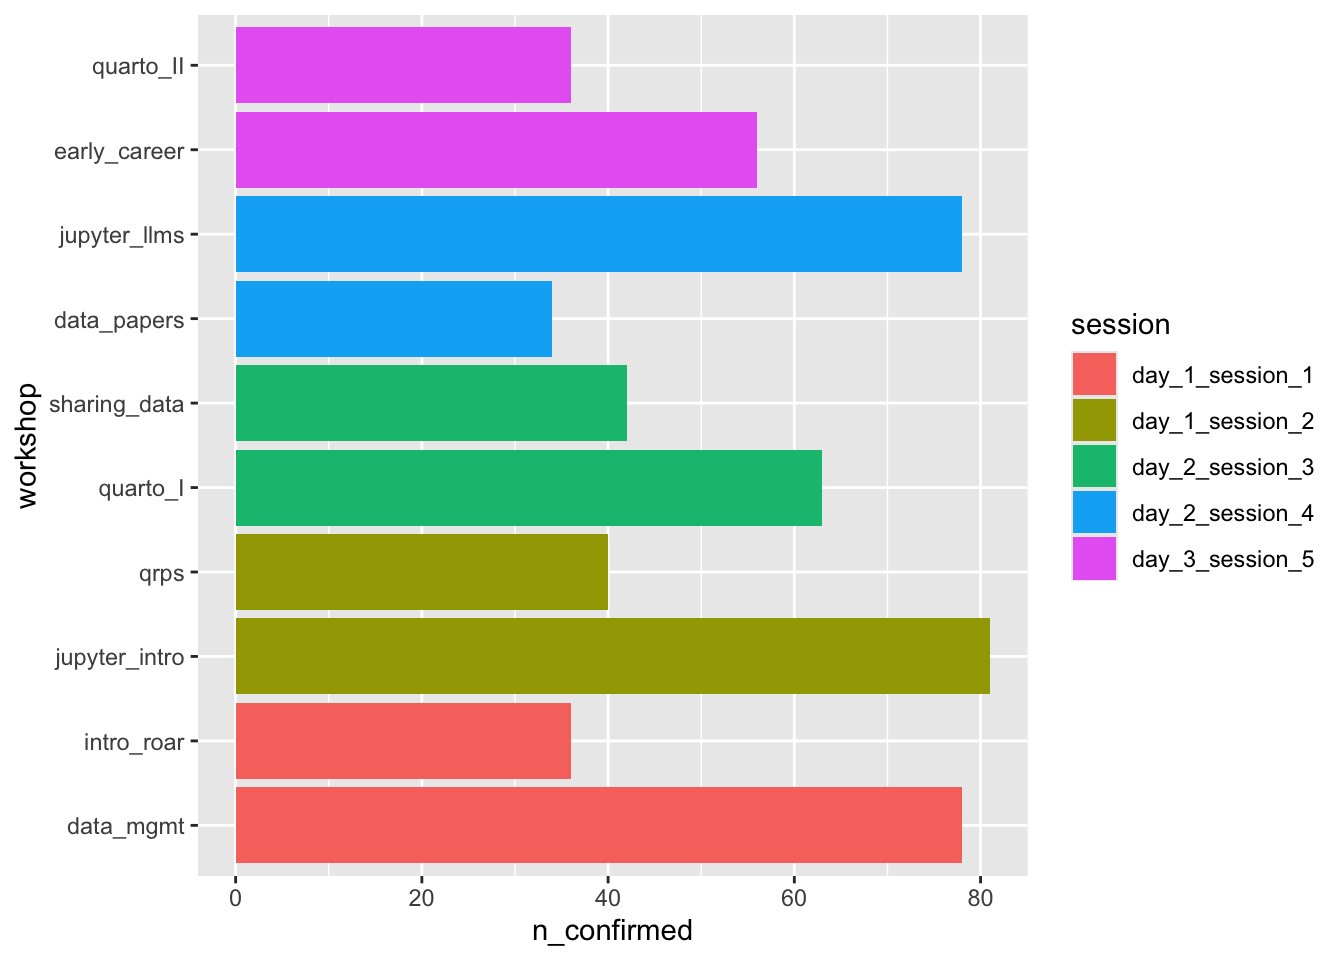
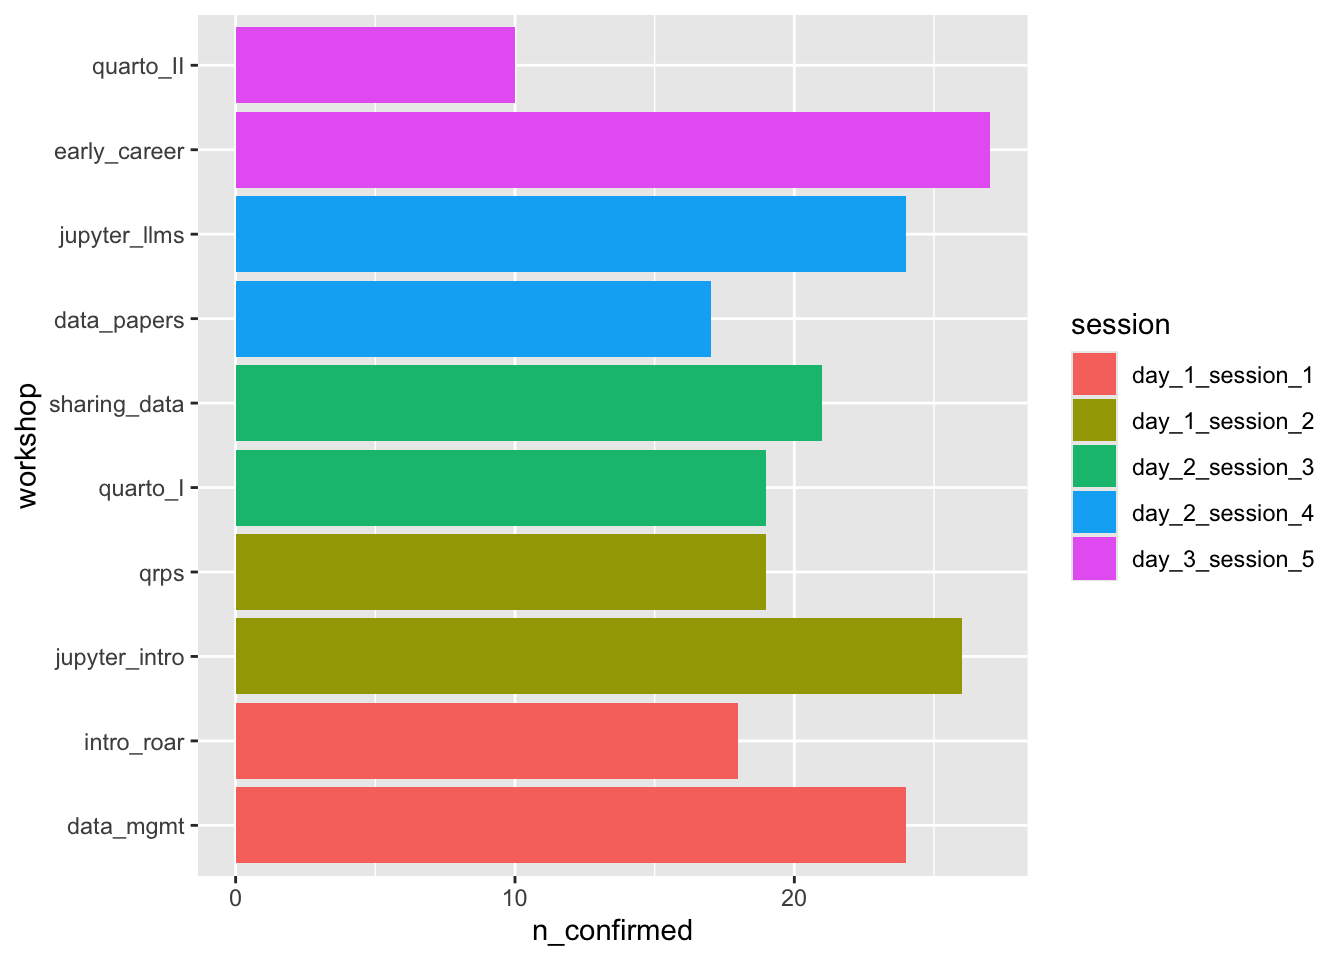
Update confirmations.

diff --git a/docs/confirmation.html b/docs/confirmation.html
@@ -258,6 +258,8 @@ pre > code.sourceCode > span > a:first-child::before { text-decoration: underlin
   <li><a href="#visualize" id="toc-visualize" class="nav-link" data-scroll-target="#visualize">Visualize</a>
   <ul class="collapse">
   <li><a href="#day-1-attendees" id="toc-day-1-attendees" class="nav-link" data-scroll-target="#day-1-attendees">Day 1 attendees</a></li>
+  <li><a href="#day-2-attendees" id="toc-day-2-attendees" class="nav-link" data-scroll-target="#day-2-attendees">Day 2 attendees</a></li>
+  <li><a href="#day-3-attendees" id="toc-day-3-attendees" class="nav-link" data-scroll-target="#day-3-attendees">Day 3 attendees</a></li>
   </ul></li>
   </ul>
 <div class="toc-actions"><ul><li><a href="https://github.com/penn-state-open-science/bootcamp-2025/edit/main/src/confirmation.qmd" class="toc-action"><i class="bi bi-github"></i>Edit this page</a></li><li><a href="https://github.com/penn-state-open-science/bootcamp-2025/issues/new" class="toc-action"><i class="bi empty"></i>Report an issue</a></li></ul></div></nav>
@@ -279,7 +281,7 @@ pre > code.sourceCode > span > a:first-child::before { text-decoration: underlin
     <div>
     <div class="quarto-title-meta-heading">Modified</div>
     <div class="quarto-title-meta-contents">
-      <p class="date-modified">August 13, 2025</p>
+      <p class="date-modified">August 14, 2025</p>
     </div>
   </div>
     
@@ -336,12 +338,18 @@ Important
 <span id="cb2-6"><a href="#cb2-6" aria-hidden="true" tabindex="-1"></a><span class="fu">options</span>(<span class="at">gargle_oauth_email =</span> <span class="fu">Sys.getenv</span>(<span class="st">"GMAIL_SURVEY"</span>))</span>
 <span id="cb2-7"><a href="#cb2-7" aria-hidden="true" tabindex="-1"></a>googledrive<span class="sc">::</span><span class="fu">drive_auth</span>()</span>
 <span id="cb2-8"><a href="#cb2-8" aria-hidden="true" tabindex="-1"></a></span>
-<span id="cb2-9"><a href="#cb2-9" aria-hidden="true" tabindex="-1"></a>googledrive<span class="sc">::</span><span class="fu">drive_download</span>(</span>
-<span id="cb2-10"><a href="#cb2-10" aria-hidden="true" tabindex="-1"></a>  params<span class="sc">$</span>sheets_fn,</span>
-<span id="cb2-11"><a href="#cb2-11" aria-hidden="true" tabindex="-1"></a>  <span class="at">path =</span> <span class="fu">file.path</span>(params<span class="sc">$</span>csv_dir, params<span class="sc">$</span>data_csv_fn),</span>
-<span id="cb2-12"><a href="#cb2-12" aria-hidden="true" tabindex="-1"></a>  <span class="at">type =</span> <span class="st">"csv"</span>,</span>
-<span id="cb2-13"><a href="#cb2-13" aria-hidden="true" tabindex="-1"></a>  <span class="at">overwrite =</span> <span class="cn">TRUE</span></span>
-<span id="cb2-14"><a href="#cb2-14" aria-hidden="true" tabindex="-1"></a>)</span></code><button title="Copy to Clipboard" class="code-copy-button"><i class="bi"></i></button></pre></div>
+<span id="cb2-9"><a href="#cb2-9" aria-hidden="true" tabindex="-1"></a><span class="co"># googledrive::drive_download(</span></span>
+<span id="cb2-10"><a href="#cb2-10" aria-hidden="true" tabindex="-1"></a><span class="co">#   params$sheets_fn,</span></span>
+<span id="cb2-11"><a href="#cb2-11" aria-hidden="true" tabindex="-1"></a><span class="co">#   path = file.path(params$csv_dir, params$data_csv_fn),</span></span>
+<span id="cb2-12"><a href="#cb2-12" aria-hidden="true" tabindex="-1"></a><span class="co">#   type = "csv",</span></span>
+<span id="cb2-13"><a href="#cb2-13" aria-hidden="true" tabindex="-1"></a><span class="co">#   overwrite = TRUE</span></span>
+<span id="cb2-14"><a href="#cb2-14" aria-hidden="true" tabindex="-1"></a><span class="co"># )</span></span>
+<span id="cb2-15"><a href="#cb2-15" aria-hidden="true" tabindex="-1"></a></span>
+<span id="cb2-16"><a href="#cb2-16" aria-hidden="true" tabindex="-1"></a>attendees <span class="ot">&lt;-</span> googlesheets4<span class="sc">::</span><span class="fu">read_sheet</span>(<span class="st">"https://docs.google.com/spreadsheets/d/1PB4VlZ3hSblOIC9DpOuN6n7icEPjrhQEQZsCl-WAdEI/edit?gid=1355452782#gid=1355452782"</span>) <span class="sc">|&gt;</span></span>
+<span id="cb2-17"><a href="#cb2-17" aria-hidden="true" tabindex="-1"></a>  readr<span class="sc">::</span><span class="fu">write_csv</span>(<span class="fu">file.path</span>(params<span class="sc">$</span>csv_dir, params<span class="sc">$</span>data_csv_fn))</span>
+<span id="cb2-18"><a href="#cb2-18" aria-hidden="true" tabindex="-1"></a></span>
+<span id="cb2-19"><a href="#cb2-19" aria-hidden="true" tabindex="-1"></a>presenters <span class="ot">&lt;-</span> googlesheets4<span class="sc">::</span><span class="fu">read_sheet</span>(<span class="st">"https://docs.google.com/spreadsheets/d/1PB4VlZ3hSblOIC9DpOuN6n7icEPjrhQEQZsCl-WAdEI/edit?gid=1095246661#gid=1095246661"</span>, <span class="at">sheet =</span> <span class="st">"presenters"</span>) <span class="sc">|&gt;</span></span>
+<span id="cb2-20"><a href="#cb2-20" aria-hidden="true" tabindex="-1"></a>  readr<span class="sc">::</span><span class="fu">write_csv</span>(<span class="fu">file.path</span>(params<span class="sc">$</span>csv_dir, <span class="st">"presenters-2025.csv"</span>))</span></code><button title="Copy to Clipboard" class="code-copy-button"><i class="bi"></i></button></pre></div>
 </details>
 </div>
 </section>
@@ -370,7 +378,7 @@ Important
 [11] "attend_wed"                                 </code></pre>
 </div>
 </div>
-<p>The imported CSV file has <em>n</em>=89 rows.</p>
+<p>The imported CSV file has <em>n</em>=77 rows.</p>
 <div class="callout callout-style-default callout-note callout-titled">
 <div class="callout-header d-flex align-content-center">
 <div class="callout-icon-container">
@@ -567,7 +575,8 @@ Table&nbsp;11.1: A minimal data dictionary.
 <div class="sourceCode cell-code" id="cb8"><pre class="sourceCode r code-with-copy"><code class="sourceCode r"><span id="cb8-1"><a href="#cb8-1" aria-hidden="true" tabindex="-1"></a>confirmations_clean <span class="ot">&lt;-</span> confirmations_clean <span class="sc">|&gt;</span></span>
 <span id="cb8-2"><a href="#cb8-2" aria-hidden="true" tabindex="-1"></a>  <span class="fu">mutate</span>(<span class="at">plan_wed =</span> stringr<span class="sc">::</span><span class="fu">str_detect</span>(attend_days, <span class="st">"Wed"</span>),</span>
 <span id="cb8-3"><a href="#cb8-3" aria-hidden="true" tabindex="-1"></a>                <span class="at">plan_thu =</span> stringr<span class="sc">::</span><span class="fu">str_detect</span>(attend_days, <span class="st">"Thu"</span>),</span>
-<span id="cb8-4"><a href="#cb8-4" aria-hidden="true" tabindex="-1"></a>                <span class="at">plan_fri =</span> stringr<span class="sc">::</span><span class="fu">str_detect</span>(attend_days, <span class="st">"Fri"</span>)) </span></code><button title="Copy to Clipboard" class="code-copy-button"><i class="bi"></i></button></pre></div>
+<span id="cb8-4"><a href="#cb8-4" aria-hidden="true" tabindex="-1"></a>                <span class="at">plan_fri =</span> stringr<span class="sc">::</span><span class="fu">str_detect</span>(attend_days, <span class="st">"Fri"</span>),</span>
+<span id="cb8-5"><a href="#cb8-5" aria-hidden="true" tabindex="-1"></a>         <span class="at">withdrew =</span> stringr<span class="sc">::</span><span class="fu">str_detect</span>(attend_days, <span class="st">"I can no"</span>)) </span></code><button title="Copy to Clipboard" class="code-copy-button"><i class="bi"></i></button></pre></div>
 </details>
 </div>
 <p>Remove duplicate (email) entries.</p>
@@ -591,42 +600,53 @@ Table&nbsp;11.1: A minimal data dictionary.
 </section>
 <section id="visualize" class="level2">
 <h2 class="anchored" data-anchor-id="visualize">Visualize</h2>
-<p>As of 2025-08-13, we have had <em>n</em>=68 non-presenter registrants confirm.</p>
-<p>Let’s transform the data frame to make it easier to summarize the number of confirmations per session and topic.</p>
+<p>We had <em>n</em>=69 responde to our confirmation survey.</p>
 <div class="cell">
 <details class="code-fold">
 <summary>Code</summary>
-<div class="sourceCode cell-code" id="cb11"><pre class="sourceCode r code-with-copy"><code class="sourceCode r"><span id="cb11-1"><a href="#cb11-1" aria-hidden="true" tabindex="-1"></a>confirmations_long <span class="ot">&lt;-</span> confirmations_clean <span class="sc">|&gt;</span></span>
-<span id="cb11-2"><a href="#cb11-2" aria-hidden="true" tabindex="-1"></a>  <span class="co"># Remove individual-level variables since this is a summary</span></span>
-<span id="cb11-3"><a href="#cb11-3" aria-hidden="true" tabindex="-1"></a>  <span class="fu">select</span>(<span class="sc">-</span><span class="fu">c</span>(<span class="st">'timestamp'</span>, <span class="st">'psu_email'</span>, <span class="st">'name'</span>, <span class="st">'attend_days'</span>,</span>
-<span id="cb11-4"><a href="#cb11-4" aria-hidden="true" tabindex="-1"></a>            <span class="st">'food_restrictions'</span>, <span class="st">'plan_wed'</span>, <span class="st">'plan_thu'</span>, <span class="st">'plan_fri'</span>)) <span class="sc">|&gt;</span></span>
-<span id="cb11-5"><a href="#cb11-5" aria-hidden="true" tabindex="-1"></a>  <span class="fu">pivot_longer</span>(</span>
-<span id="cb11-6"><a href="#cb11-6" aria-hidden="true" tabindex="-1"></a>    <span class="at">cols =</span> <span class="fu">c</span>(</span>
-<span id="cb11-7"><a href="#cb11-7" aria-hidden="true" tabindex="-1"></a>      <span class="st">'day_1_session_1'</span>,</span>
-<span id="cb11-8"><a href="#cb11-8" aria-hidden="true" tabindex="-1"></a>      <span class="st">'day_1_session_2'</span>,</span>
-<span id="cb11-9"><a href="#cb11-9" aria-hidden="true" tabindex="-1"></a>      <span class="st">'day_2_session_3'</span>,</span>
-<span id="cb11-10"><a href="#cb11-10" aria-hidden="true" tabindex="-1"></a>      <span class="st">'day_2_session_4'</span>,</span>
-<span id="cb11-11"><a href="#cb11-11" aria-hidden="true" tabindex="-1"></a>      <span class="st">'day_3_session_5'</span></span>
-<span id="cb11-12"><a href="#cb11-12" aria-hidden="true" tabindex="-1"></a>    ),</span>
-<span id="cb11-13"><a href="#cb11-13" aria-hidden="true" tabindex="-1"></a>    <span class="at">names_to =</span> <span class="st">'session'</span>,</span>
-<span id="cb11-14"><a href="#cb11-14" aria-hidden="true" tabindex="-1"></a>    <span class="at">values_to =</span> <span class="st">'workshop'</span></span>
-<span id="cb11-15"><a href="#cb11-15" aria-hidden="true" tabindex="-1"></a>  ) <span class="sc">|&gt;</span></span>
-<span id="cb11-16"><a href="#cb11-16" aria-hidden="true" tabindex="-1"></a>  <span class="fu">add_count</span>(session, workshop, <span class="at">name =</span> <span class="st">"n_confirmed"</span>, <span class="at">sort =</span> <span class="cn">TRUE</span>) <span class="sc">|&gt;</span></span>
-<span id="cb11-17"><a href="#cb11-17" aria-hidden="true" tabindex="-1"></a>  <span class="fu">group_by</span>(session, workshop) <span class="sc">|&gt;</span></span>
-<span id="cb11-18"><a href="#cb11-18" aria-hidden="true" tabindex="-1"></a>  <span class="fu">filter</span>(<span class="sc">!</span><span class="fu">is.na</span>(workshop)) <span class="sc">|&gt;</span></span>
-<span id="cb11-19"><a href="#cb11-19" aria-hidden="true" tabindex="-1"></a>  <span class="fu">distinct</span>()</span></code><button title="Copy to Clipboard" class="code-copy-button"><i class="bi"></i></button></pre></div>
+<div class="sourceCode cell-code" id="cb11"><pre class="sourceCode r code-with-copy"><code class="sourceCode r"><span id="cb11-1"><a href="#cb11-1" aria-hidden="true" tabindex="-1"></a>cancelled <span class="ot">&lt;-</span> confirmations_clean <span class="sc">|&gt;</span></span>
+<span id="cb11-2"><a href="#cb11-2" aria-hidden="true" tabindex="-1"></a>  <span class="fu">filter</span>(withdrew <span class="sc">==</span> <span class="cn">TRUE</span>)</span>
+<span id="cb11-3"><a href="#cb11-3" aria-hidden="true" tabindex="-1"></a></span>
+<span id="cb11-4"><a href="#cb11-4" aria-hidden="true" tabindex="-1"></a>no_cancel <span class="ot">&lt;-</span> confirmations_clean <span class="sc">|&gt;</span></span>
+<span id="cb11-5"><a href="#cb11-5" aria-hidden="true" tabindex="-1"></a>  <span class="fu">filter</span>(withdrew <span class="sc">%in%</span> <span class="fu">c</span>(<span class="cn">NA</span>, <span class="cn">FALSE</span>))</span></code><button title="Copy to Clipboard" class="code-copy-button"><i class="bi"></i></button></pre></div>
+</details>
+</div>
+<p>Some people (<em>n</em>=20) had to cancel and let us know via the confirmation form. This means our expected number of confirmed non-presenter attendees is <em>n</em>=49.</p>
+<p>We will transform the data frame to make it easier to summarize the number of confirmations per session and topic.</p>
+<div class="cell">
+<details class="code-fold">
+<summary>Code</summary>
+<div class="sourceCode cell-code" id="cb12"><pre class="sourceCode r code-with-copy"><code class="sourceCode r"><span id="cb12-1"><a href="#cb12-1" aria-hidden="true" tabindex="-1"></a>confirmations_long <span class="ot">&lt;-</span> no_cancel <span class="sc">|&gt;</span></span>
+<span id="cb12-2"><a href="#cb12-2" aria-hidden="true" tabindex="-1"></a>  <span class="co"># Remove individual-level variables since this is a summary</span></span>
+<span id="cb12-3"><a href="#cb12-3" aria-hidden="true" tabindex="-1"></a>  <span class="fu">select</span>(<span class="sc">-</span><span class="fu">c</span>(<span class="st">'timestamp'</span>, <span class="st">'psu_email'</span>, <span class="st">'name'</span>, <span class="st">'attend_days'</span>,</span>
+<span id="cb12-4"><a href="#cb12-4" aria-hidden="true" tabindex="-1"></a>            <span class="st">'food_restrictions'</span>, <span class="st">'plan_wed'</span>, <span class="st">'plan_thu'</span>, <span class="st">'plan_fri'</span>)) <span class="sc">|&gt;</span></span>
+<span id="cb12-5"><a href="#cb12-5" aria-hidden="true" tabindex="-1"></a>  <span class="fu">pivot_longer</span>(</span>
+<span id="cb12-6"><a href="#cb12-6" aria-hidden="true" tabindex="-1"></a>    <span class="at">cols =</span> <span class="fu">c</span>(</span>
+<span id="cb12-7"><a href="#cb12-7" aria-hidden="true" tabindex="-1"></a>      <span class="st">'day_1_session_1'</span>,</span>
+<span id="cb12-8"><a href="#cb12-8" aria-hidden="true" tabindex="-1"></a>      <span class="st">'day_1_session_2'</span>,</span>
+<span id="cb12-9"><a href="#cb12-9" aria-hidden="true" tabindex="-1"></a>      <span class="st">'day_2_session_3'</span>,</span>
+<span id="cb12-10"><a href="#cb12-10" aria-hidden="true" tabindex="-1"></a>      <span class="st">'day_2_session_4'</span>,</span>
+<span id="cb12-11"><a href="#cb12-11" aria-hidden="true" tabindex="-1"></a>      <span class="st">'day_3_session_5'</span></span>
+<span id="cb12-12"><a href="#cb12-12" aria-hidden="true" tabindex="-1"></a>    ),</span>
+<span id="cb12-13"><a href="#cb12-13" aria-hidden="true" tabindex="-1"></a>    <span class="at">names_to =</span> <span class="st">'session'</span>,</span>
+<span id="cb12-14"><a href="#cb12-14" aria-hidden="true" tabindex="-1"></a>    <span class="at">values_to =</span> <span class="st">'workshop'</span></span>
+<span id="cb12-15"><a href="#cb12-15" aria-hidden="true" tabindex="-1"></a>  ) <span class="sc">|&gt;</span></span>
+<span id="cb12-16"><a href="#cb12-16" aria-hidden="true" tabindex="-1"></a>  <span class="fu">add_count</span>(session, workshop, <span class="at">name =</span> <span class="st">"n_confirmed"</span>, <span class="at">sort =</span> <span class="cn">TRUE</span>) <span class="sc">|&gt;</span></span>
+<span id="cb12-17"><a href="#cb12-17" aria-hidden="true" tabindex="-1"></a>  <span class="fu">group_by</span>(session, workshop) <span class="sc">|&gt;</span></span>
+<span id="cb12-18"><a href="#cb12-18" aria-hidden="true" tabindex="-1"></a>  <span class="fu">filter</span>(<span class="sc">!</span><span class="fu">is.na</span>(workshop)) <span class="sc">|&gt;</span></span>
+<span id="cb12-19"><a href="#cb12-19" aria-hidden="true" tabindex="-1"></a>  <span class="fu">distinct</span>()</span></code><button title="Copy to Clipboard" class="code-copy-button"><i class="bi"></i></button></pre></div>
 </details>
 </div>
 <div class="cell">
 <details class="code-fold">
 <summary>Code</summary>
-<div class="sourceCode cell-code" id="cb12"><pre class="sourceCode r code-with-copy"><code class="sourceCode r"><span id="cb12-1"><a href="#cb12-1" aria-hidden="true" tabindex="-1"></a>confirmations_long <span class="sc">|&gt;</span></span>
-<span id="cb12-2"><a href="#cb12-2" aria-hidden="true" tabindex="-1"></a>  <span class="co"># distinct() |&gt;</span></span>
-<span id="cb12-3"><a href="#cb12-3" aria-hidden="true" tabindex="-1"></a>  <span class="fu">mutate</span>(<span class="at">workshop =</span> <span class="fu">fct_reorder</span>(workshop, n_confirmed)) <span class="sc">|&gt;</span></span>
-<span id="cb12-4"><a href="#cb12-4" aria-hidden="true" tabindex="-1"></a>  <span class="fu">ggplot</span>() <span class="sc">+</span></span>
-<span id="cb12-5"><a href="#cb12-5" aria-hidden="true" tabindex="-1"></a>  <span class="fu">aes</span>(<span class="at">x =</span> workshop, <span class="at">y =</span> n_confirmed, <span class="at">fill =</span> session) <span class="sc">+</span></span>
-<span id="cb12-6"><a href="#cb12-6" aria-hidden="true" tabindex="-1"></a>  <span class="fu">geom_col</span>() <span class="sc">+</span></span>
-<span id="cb12-7"><a href="#cb12-7" aria-hidden="true" tabindex="-1"></a>  <span class="fu">coord_flip</span>()</span></code><button title="Copy to Clipboard" class="code-copy-button"><i class="bi"></i></button></pre></div>
+<div class="sourceCode cell-code" id="cb13"><pre class="sourceCode r code-with-copy"><code class="sourceCode r"><span id="cb13-1"><a href="#cb13-1" aria-hidden="true" tabindex="-1"></a>confirmations_long <span class="sc">|&gt;</span></span>
+<span id="cb13-2"><a href="#cb13-2" aria-hidden="true" tabindex="-1"></a>  <span class="fu">distinct</span>(workshop, n_confirmed) <span class="sc">|&gt;</span></span>
+<span id="cb13-3"><a href="#cb13-3" aria-hidden="true" tabindex="-1"></a>  <span class="fu">mutate</span>(<span class="at">workshop =</span> <span class="fu">fct_reorder</span>(workshop, n_confirmed)) <span class="sc">|&gt;</span></span>
+<span id="cb13-4"><a href="#cb13-4" aria-hidden="true" tabindex="-1"></a>  <span class="fu">ggplot</span>() <span class="sc">+</span></span>
+<span id="cb13-5"><a href="#cb13-5" aria-hidden="true" tabindex="-1"></a>  <span class="fu">aes</span>(<span class="at">x =</span> workshop, <span class="at">y =</span> n_confirmed, <span class="at">fill =</span> session) <span class="sc">+</span></span>
+<span id="cb13-6"><a href="#cb13-6" aria-hidden="true" tabindex="-1"></a>  <span class="fu">geom_col</span>() <span class="sc">+</span></span>
+<span id="cb13-7"><a href="#cb13-7" aria-hidden="true" tabindex="-1"></a>  <span class="fu">coord_flip</span>()</span></code><button title="Copy to Clipboard" class="code-copy-button"><i class="bi"></i></button></pre></div>
 </details>
 <div class="cell-output-display">
 <div id="fig-workshop-interest" class="quarto-float quarto-figure quarto-figure-center anchored">
@@ -646,12 +666,44 @@ Figure&nbsp;11.1: Interest in specific workshops by session.
 <div class="cell">
 <details class="code-fold">
 <summary>Code</summary>
-<div class="sourceCode cell-code" id="cb13"><pre class="sourceCode r code-with-copy"><code class="sourceCode r"><span id="cb13-1"><a href="#cb13-1" aria-hidden="true" tabindex="-1"></a>wed_attendees <span class="ot">&lt;-</span> confirmations_clean <span class="sc">|&gt;</span></span>
-<span id="cb13-2"><a href="#cb13-2" aria-hidden="true" tabindex="-1"></a>  <span class="fu">filter</span>(attend_wed <span class="sc">%in%</span> <span class="fu">c</span>(<span class="st">'yes'</span>, <span class="st">'no'</span>))</span>
-<span id="cb13-3"><a href="#cb13-3" aria-hidden="true" tabindex="-1"></a>wed_xtabs <span class="ot">&lt;-</span> <span class="fu">xtabs</span>(<span class="at">formula =</span> <span class="sc">~</span> attend_wed <span class="sc">+</span> plan_wed, <span class="at">data =</span> wed_attendees)</span></code><button title="Copy to Clipboard" class="code-copy-button"><i class="bi"></i></button></pre></div>
+<div class="sourceCode cell-code" id="cb14"><pre class="sourceCode r code-with-copy"><code class="sourceCode r"><span id="cb14-1"><a href="#cb14-1" aria-hidden="true" tabindex="-1"></a>wed_attendees <span class="ot">&lt;-</span> no_cancel <span class="sc">|&gt;</span></span>
+<span id="cb14-2"><a href="#cb14-2" aria-hidden="true" tabindex="-1"></a>  <span class="fu">filter</span>(attend_wed <span class="sc">%in%</span> <span class="fu">c</span>(<span class="st">'yes'</span>, <span class="st">'no'</span>))</span>
+<span id="cb14-3"><a href="#cb14-3" aria-hidden="true" tabindex="-1"></a>wed_xtabs <span class="ot">&lt;-</span> <span class="fu">xtabs</span>(<span class="at">formula =</span> <span class="sc">~</span> attend_wed <span class="sc">+</span> plan_wed, <span class="at">data =</span> wed_attendees)</span></code><button title="Copy to Clipboard" class="code-copy-button"><i class="bi"></i></button></pre></div>
 </details>
 </div>
-<p>We had <em>n</em>=46 non-presenters report <em>planning</em> to attend Wednesday, and <em>n</em>=32 who actually attended.</p>
+<p>We had <em>n</em>=46 non-presenters report <em>planning</em> to attend Wednesday, and <em>n</em>=32 or 70% who attended. We also had <em>n</em>=13 presenters attend on Wednesday.</p>
+</section>
+<section id="day-2-attendees" class="level3">
+<h3 class="anchored" data-anchor-id="day-2-attendees">Day 2 attendees</h3>
+<div class="callout callout-style-default callout-warning callout-titled">
+<div class="callout-header d-flex align-content-center">
+<div class="callout-icon-container">
+<i class="callout-icon"></i>
+</div>
+<div class="callout-title-container flex-fill">
+Warning
+</div>
+</div>
+<div class="callout-body-container callout-body">
+<p>Under construction.</p>
+</div>
+</div>
+</section>
+<section id="day-3-attendees" class="level3">
+<h3 class="anchored" data-anchor-id="day-3-attendees">Day 3 attendees</h3>
+<div class="callout callout-style-default callout-warning callout-titled">
+<div class="callout-header d-flex align-content-center">
+<div class="callout-icon-container">
+<i class="callout-icon"></i>
+</div>
+<div class="callout-title-container flex-fill">
+Warning
+</div>
+</div>
+<div class="callout-body-container callout-body">
+<p>Under construction.</p>
+</div>
+</div>
 <!-- ### Day 1 -->
 <!-- ```{r} -->
 <!-- xtabs(formula = ~ plan_wed, data = confirmations_clean) -->
